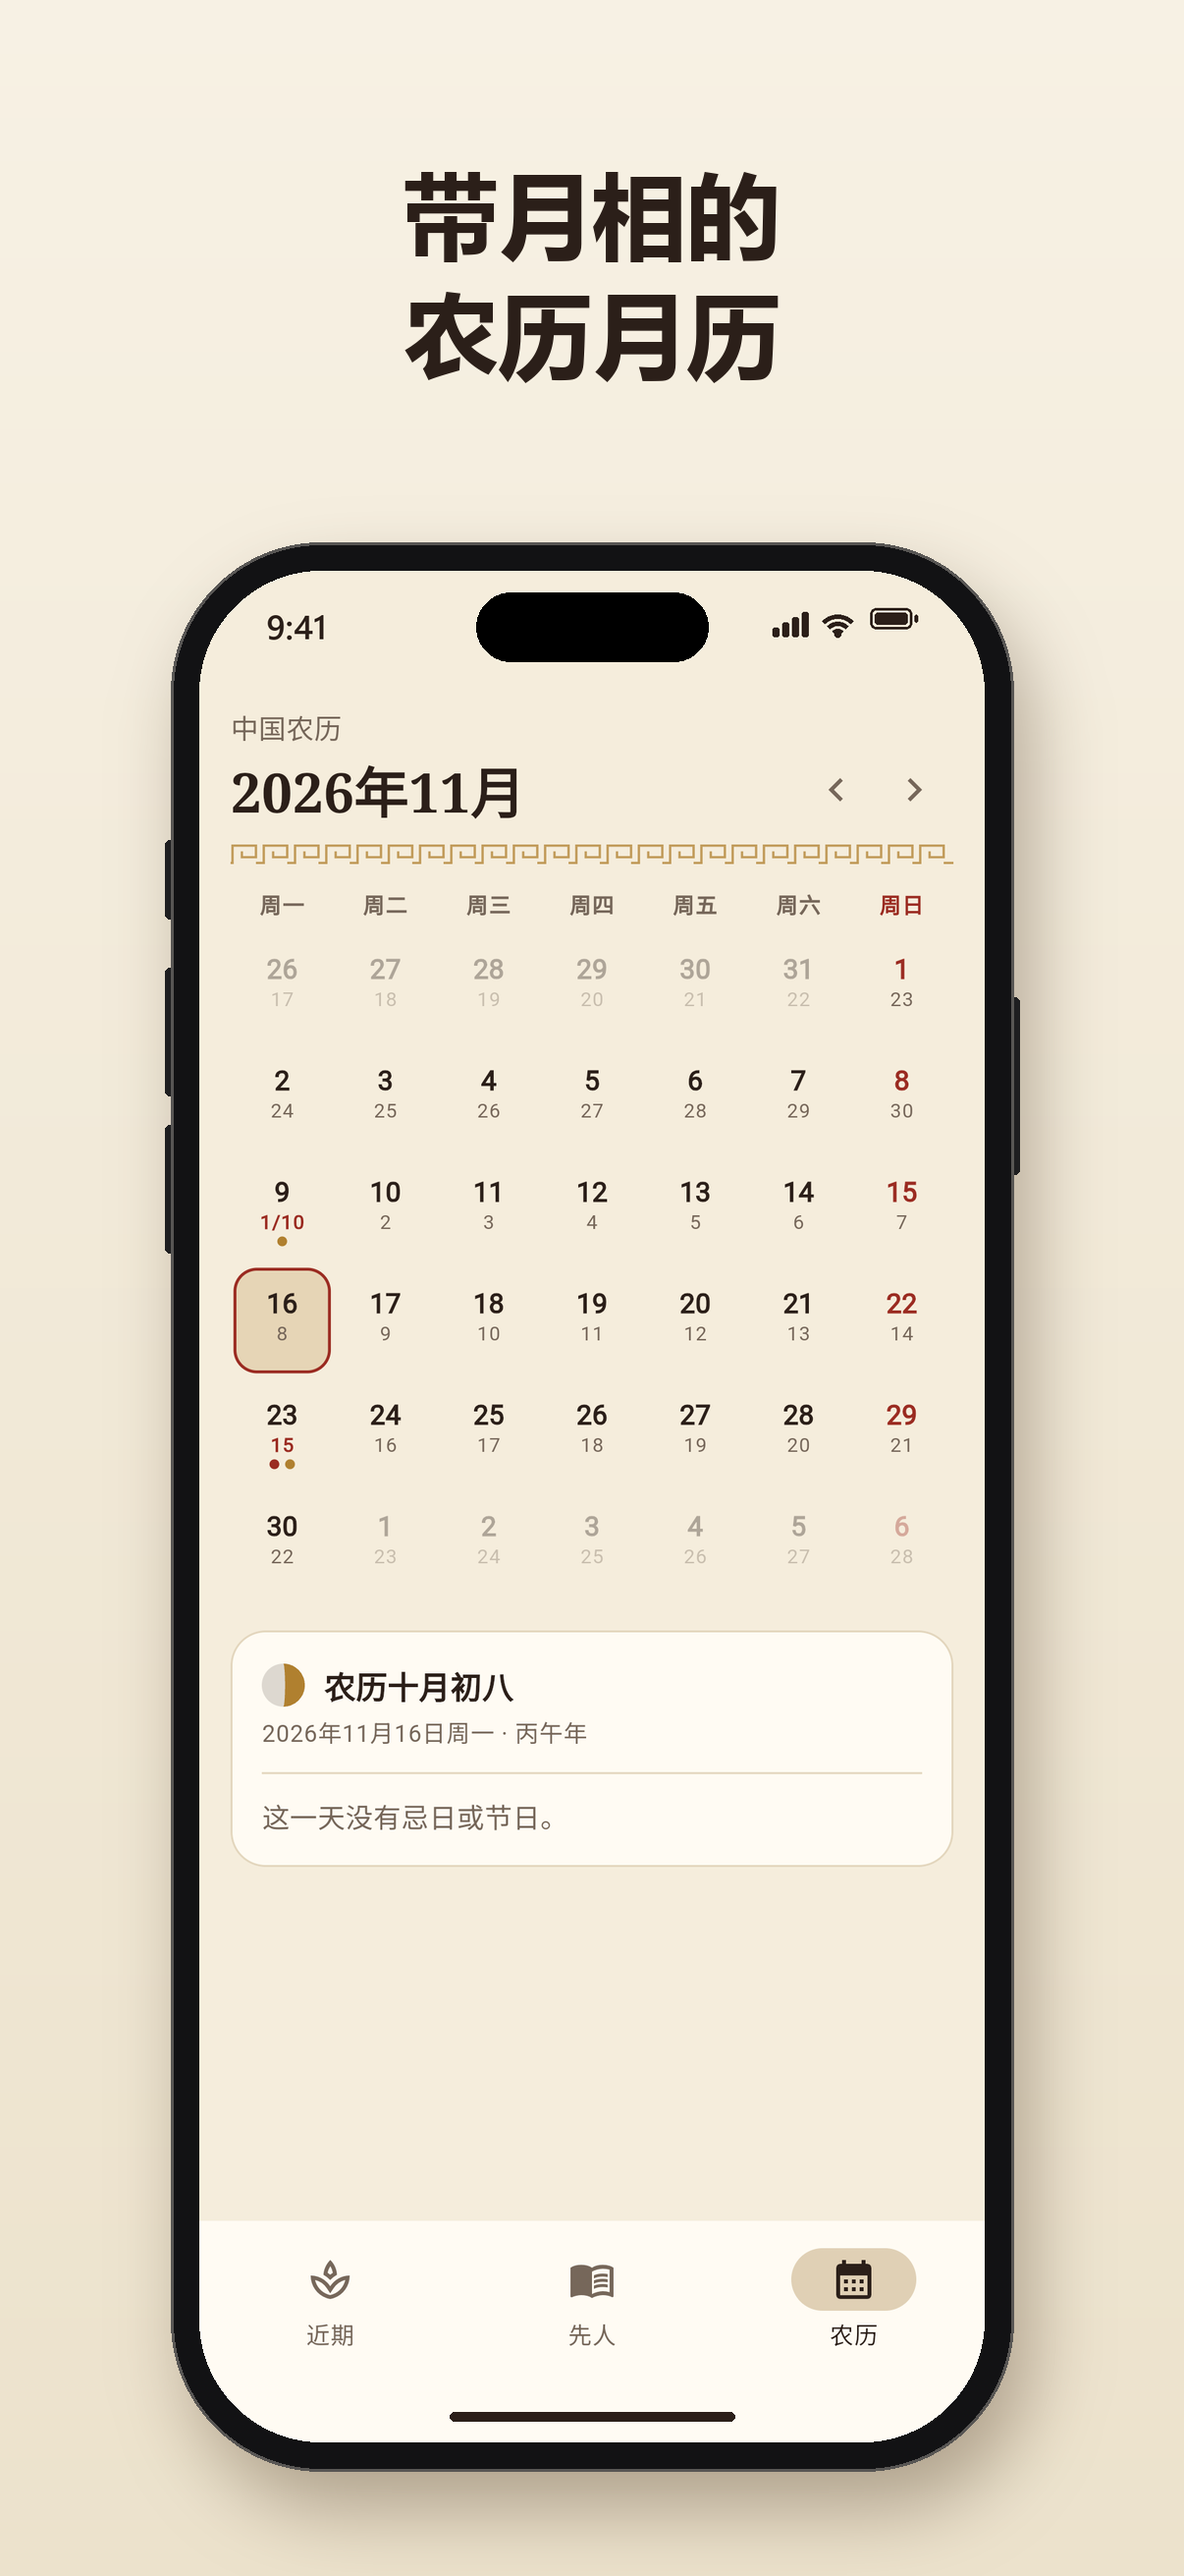
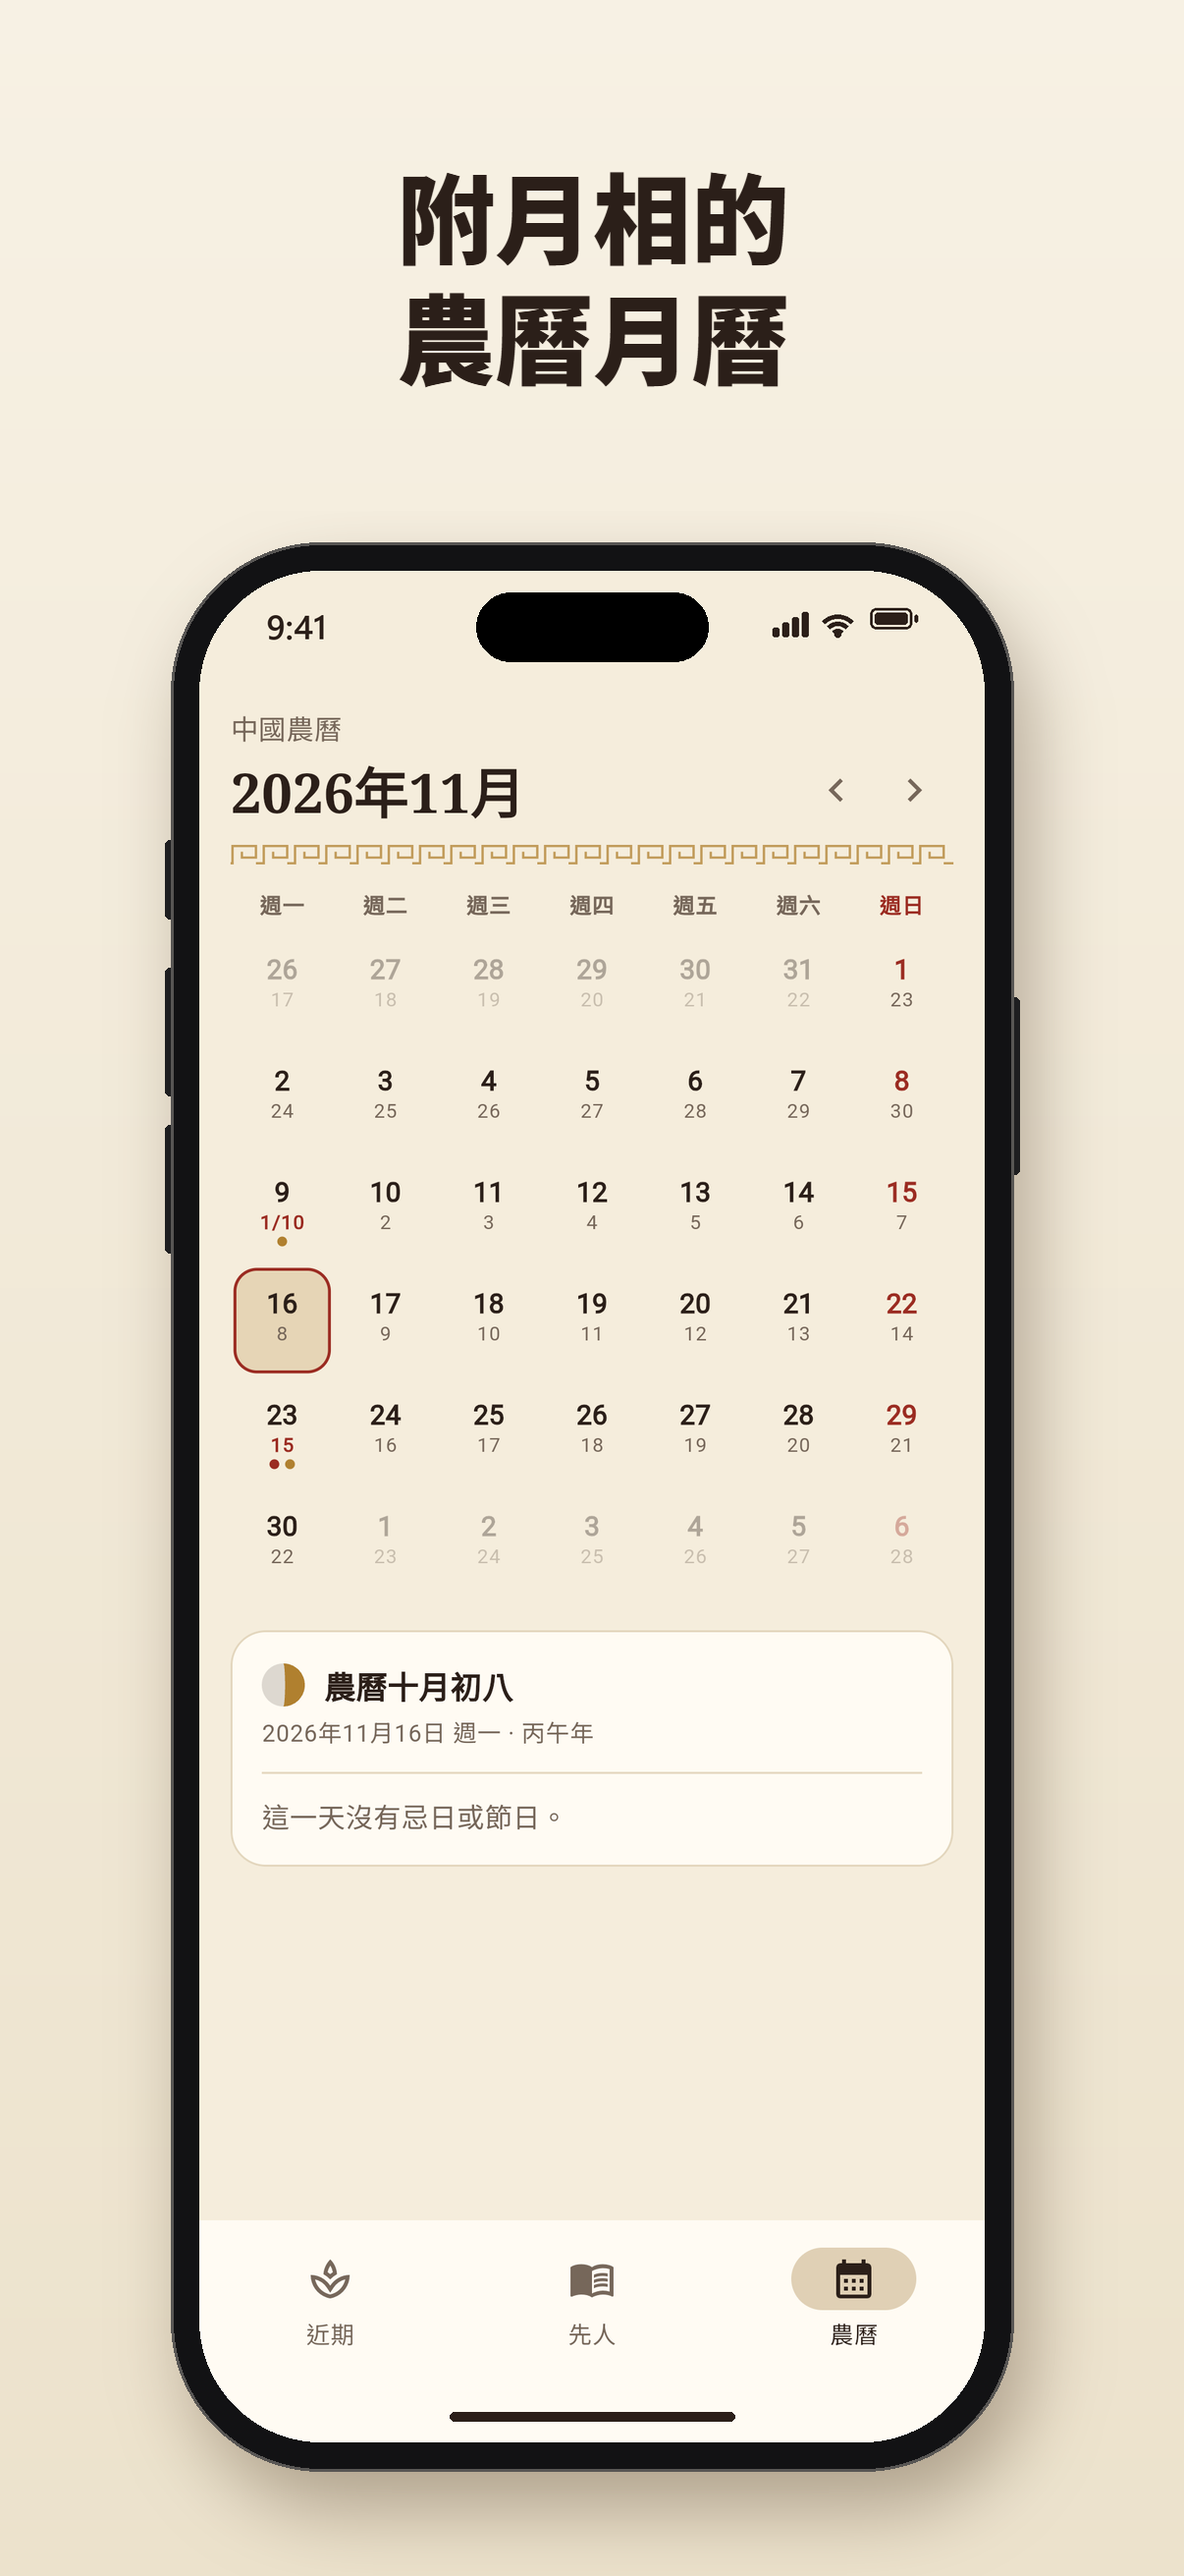
Add files via upload

diff --git a/docs/app-store/zh-Hant/thong-tin.md b/docs/app-store/zh-Hant/thong-tin.md
@@ -1,84 +1,66 @@
-# Chinese (Simplified): nội dung nhập vào App Store Connect
+# Chinese (Traditional): nội dung nhập vào App Store Connect
 
-Tiếng Trung giản thể. Trong App Store Connect, chọn ngôn ngữ **Chinese (Simplified)** ở góc trên bên phải trang app rồi dán từng ô dưới đây.
-Bấm biểu tượng sao chép ở góc mỗi khung để chép đúng nguyên văn.
+Tiếng Trung phồn thể. Trong App Store Connect, chọn ngôn ngữ **Chinese (Traditional)** ở góc trên bên phải trang app rồi dán từng ô dưới đây.
+Bấm biểu tượng sao chép ở góc mỗi khung để chép đúng nguyên văn. Dùng từ ngữ kiểu Đài Loan (國曆, 週年, 支援, 連網).
 
-| Ô trên App Store Connect | Nghĩa | Giới hạn | Đang dùng |
-|---|---|---|---|
-| Name | Tên app | 30 ký tự | 18 |
-| Subtitle | Phụ đề | 30 ký tự | 12 |
-| Promotional Text | Dòng quảng bá | 170 ký tự | 49 |
-| Description | Mô tả | 4000 ký tự | 389 |
-| Keywords | Từ khóa | 100 ký tự | 84 |
-| What's New | Có gì mới | 4000 ký tự | 66 |
+| Ô trên App Store Connect | Giới hạn | Đang dùng |
+|---|---|---|
+| Name | 30 ký tự | 18 |
+| Subtitle | 30 ký tự | 12 |
+| Promotional Text | 170 ký tự | 49 |
+| Description | 4000 ký tự | 389 |
+| Keywords | 100 ký tự | 84 |
+| What's New | 4000 ký tự | 66 |
 
-## Name (Tên app)
-
-Nơi nhập: trang App Information.
-
+## Name
 ```
-AncestryDay:农历忌日提醒
+AncestryDay:農曆忌日提醒
 ```
 
-## Subtitle (Phụ đề)
-
-Nơi nhập: trang App Information.
-
+## Subtitle
 ```
 忌日、初一十五、清明中元
 ```
 
-## Promotional Text (Dòng quảng bá)
-
-Nơi nhập: trang phiên bản; sửa được bất cứ lúc nào, không cần duyệt lại.
-
+## Promotional Text
 ```
-忌日按农历计算,每年对应的公历日期都不同。本应用按您所在地区的农历推算,并提前提醒,让您从容准备。
+忌日按農曆計算,每年對應的國曆日期都不同。本應用依您所在地區的農曆推算,並提前提醒,讓您從容準備。
 ```
 
-## Description (Mô tả)
-
-Nơi nhập: trang phiên bản.
-
+## Description
 ```
-饮水思源。亲人的忌日按农历记,日常生活却按公历过。每年忌日落在不同的公历日期,常常想起时已经来不及准备。
+飲水思源。親人的忌日按農曆記,日常生活卻按國曆過。每年忌日落在不同的國曆日期,常常想起時已經來不及準備。
 
-AncestryDay 是您家的忌日簿。每位亲人只需录入一次,此后每年自动推算公历日期,并在提前一周、提前一天和当天提醒您。
+AncestryDay 是您家的忌日簿。每位親人只需輸入一次,此後每年自動推算國曆日期,並在提前一週、提前一天和當天提醒您。
 
-用对历法
-中国、越南、韩国、日本都按本国时区推算农历,所以同一个农历日偶尔会落在不同的公历日,有时相差整整一个月。本应用请您选择家中依循的历法,并在各历法不一致的年份提醒您。
+用對曆法
+中國、越南、韓國、日本都依本國時區推算農曆,所以同一個農曆日偶爾會落在不同的國曆日,有時相差整整一個月。本應用請您選擇家中依循的曆法,並在各曆法不一致的年份提醒您。
 
 功能
 • 家族忌日簿
-• 农历或公历忌日,自动计算周年
-• 只记得公历日期?可一键换算为农历
-• 提前7天、3天、1天及当天提醒
-• 初一、十五、春节、清明、中元、重阳、寒衣、冬至、除夕
-• 带月相的农历月历
+• 農曆或國曆忌日,自動計算週年
+• 只記得國曆日期?可一鍵換算為農曆
+• 提前7天、3天、1天及當天提醒
+• 初一、十五、春節、清明、中元、重陽、寒衣、冬至、除夕
+• 附月相的農曆月曆
 • 简体中文、繁體中文、English、Tiếng Việt、日本語、한국어
 
-注重隐私
-无需账号,无需联网,不收集任何数据。所有内容只保存在您的手机上。
+注重隱私
+無需帳號,無需連網,不蒐集任何資料。所有內容只儲存在您的手機上。
 ```
 
-## Keywords (Từ khóa)
-
-Nơi nhập: trang phiên bản; cách nhau bằng dấu phẩy, không có dấu cách.
-
+## Keywords
 ```
-农历,阴历,忌日,祭日,祭祖,先人,清明,中元,冬至,万年历,初一,十五,提醒,纪念,祭奠,扫墓,上坟,周年,黄历,日历,春节,寒衣,重阳,越南,家谱,追思,寒食,除夕
+農曆,陰曆,忌日,祭日,祭祖,祖先,清明,中元,冬至,萬年曆,初一,十五,提醒,紀念,祭拜,掃墓,上墳,週年,黃曆,日曆,春節,寒衣,重陽,越南,家譜,追思,寒食,除夕
 ```
 
-## What's New (Có gì mới)
-
-Nơi nhập: trang phiên bản; chỉ hiện ô này từ bản cập nhật thứ hai trở đi.
-
+## What's New
 ```
-首个版本。
+首個版本。
 
-• 家族忌日簿,支持农历与公历
-• 中国、越南、韩国、日本四种农历,在各历法不一致的年份提醒您
-• 忌日之前及当天提醒
+• 家族忌日簿,支援農曆與國曆
+• 中國、越南、韓國、日本四種農曆,在各曆法不一致的年份提醒您
+• 忌日之前及當天提醒
 ```
 
 ## Hai đường dẫn (giống nhau ở mọi ngôn ngữ)
